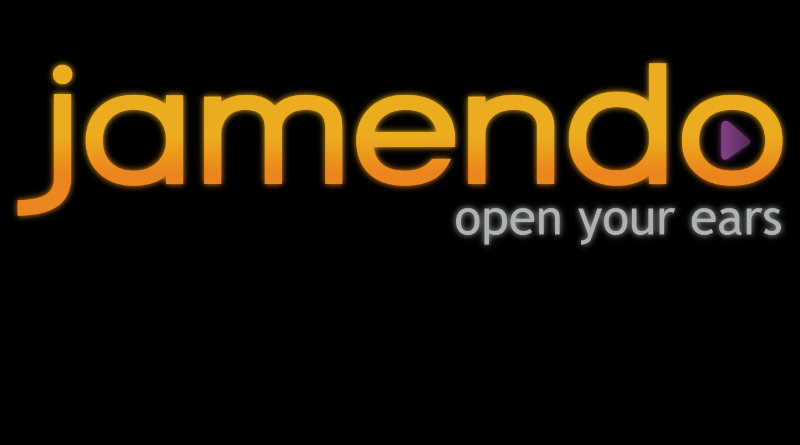
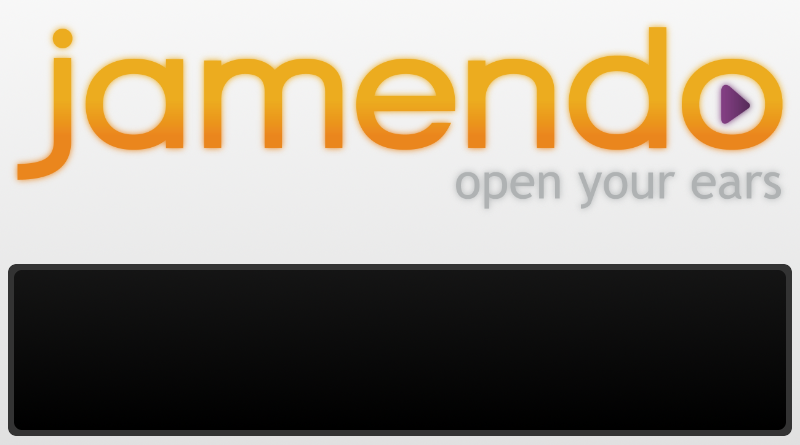
New background, code cleanup

diff --git a/jamaui/ui.py b/jamaui/ui.py
@@ -1,19 +1,8 @@
-# debugging hack - add . to path
 import os, sys
-local_module_dir = os.path.join(os.path.dirname(sys.argv[0]), '..')
-if os.path.isdir(local_module_dir):
-    sys.path.append(local_module_dir)
-
 import gtk
 import gobject
 import util
 import logging
-import gobject
-
-# we don't use the local DB...
-import jamaendo
-from jamaui.player import Player, Playlist
-from util import jsonprint
 
 import ossohelper
 
@@ -35,182 +24,28 @@ from dbus.mainloop.glib import DBusGMainLoop
 
 DBusGMainLoop(set_as_default=True)
 
-_the_playerwindow = None
+from playerwindow import open_playerwindow
+from search import SearchWindow
 
-class PlayerWindow(hildon.StackableWindow):
-    def __init__(self, playlist=None):
-        hildon.StackableWindow.__init__(self)
-        self.set_title("jamaendo")
-
-        self.connect('hide', self.on_hide)
-        self.connect('destroy', self.on_destroy)
-
-        self.playlist = Playlist(playlist)
-        self.player = Player()
-
-        vbox = gtk.VBox()
-
-        hbox = gtk.HBox()
-
-        self.cover = gtk.Image()
-        self.cover.set_size_request(200, 200)
-        self.cover.set_from_stock(gtk.STOCK_CDROM, gtk.ICON_SIZE_DIALOG)
-
-        vbox2 = gtk.VBox()
-
-        self.playlist_pos = gtk.Label()
-        self.track = gtk.Label()
-        self.progress = hildon.GtkHScale()
-        self.artist = gtk.Label()
-        self.album = gtk.Label()
-
-        self.set_labels('track name', 'artist', 'album', 0, 0)
-
-        vbox2.pack_start(self.track, True)
-        vbox2.pack_start(self.artist, False)
-        vbox2.pack_start(self.album, False)
-        vbox2.pack_start(self.playlist_pos, False)
-        vbox2.pack_start(self.progress, False)
-
-        hbox.pack_start(self.cover, True, True, 0)
-        hbox.pack_start(vbox2, True, True, 0)
-
-        vbox.pack_start(hbox, True, True, 0)
-
-        btns = gtk.HButtonBox()
-        btns.set_property('layout-style', gtk.BUTTONBOX_SPREAD)
-
-        vbox.pack_end(btns, False, True, 0)
-
-        self.add_stock_button(btns, gtk.STOCK_MEDIA_PREVIOUS, self.on_prev)
-        self.add_stock_button(btns, gtk.STOCK_MEDIA_PLAY, self.on_play)
-        self.add_stock_button(btns, gtk.STOCK_MEDIA_PAUSE, self.on_pause)
-        self.add_stock_button(btns, gtk.STOCK_MEDIA_STOP, self.on_stop)
-        self.add_stock_button(btns, gtk.STOCK_MEDIA_NEXT, self.on_next)
-
-        self.add(vbox)
-
-        print "Created player window, playlist: %s" % (self.playlist)
-
-    def on_hide(self, wnd):
-        print "Hiding player window"
-
-    def on_destroy(self, wnd):
-        print "Destroying player window"
-        if self.player:
-            self.player.stop()
-        global _the_playerwindow
-        _the_playerwindow = None
-
-    def add_stock_button(self, btns, stock, cb):
-        btn = hildon.GtkButton(gtk.HILDON_SIZE_FINGER_HEIGHT)
-        btn.set_relief(gtk.RELIEF_NONE)
-        btn.set_image(gtk.image_new_from_stock(stock, gtk.ICON_SIZE_SMALL_TOOLBAR))
-        btn.connect('clicked', cb)
-        btns.add(btn)
-
-    def set_labels(self, track, artist, album, playlist_pos, playlist_size):
-        self.playlist_pos.set_markup('<span size="small">%s/%s songs</span>'%(playlist_pos, playlist_size))
-        self.track.set_markup('<span size="x-large">%s</span>'%(track))
-        self.artist.set_markup('<span size="large">%s</span>'%(artist))
-        self.album.set_markup('<span foreground="#aaaaaa">%s</span>'%(album))
-
-    def update_state(self):
-        item = self.playlist.current()
-        if item:
-            if not item.name:
-                item.load()
-            print "current:", item
-            self.set_labels(item.name, item.artist_name, item.album_name,
-                            self.playlist.current_index(), self.playlist.size())
-            coverfile = jamaendo.get_album_cover(int(item.album_id), size=200)
-            print "coverfile:", coverfile
-            self.cover.set_from_file(coverfile)
-
-    def play_tracks(self, tracks):
-        self.playlist = Playlist(playlist)
-        self.player.play(self.playlist)
-        self.update_state()
-
-    def on_play(self, button):
-        self.player.play(self.playlist)
-        self.update_state()
-    def on_pause(self, button):
-        self.player.pause()
-    def on_prev(self, button):
-        self.player.prev()
-        self.update_state()
-    def on_next(self, button):
-        self.player.next()
-        self.update_state()
-    def on_stop(self, button):
-        self.player.stop()
-
-def open_playerwindow(tracks):
-    global _the_playerwindow
-    if _the_playerwindow:
-        hildon.WindowStack.push_1(_the_playerwindow)
-        _the_playerwindow.play_tracks(tracks)
-    else:
-        _the_playerwindow = PlayerWindow(tracks)
-        _the_playerwindow.show_all()
-    return _the_playerwindow
-
-class SearchWindow(hildon.StackableWindow):
+class ArtistWindow(hildon.StackableWindow):
     def __init__(self):
         hildon.StackableWindow.__init__(self)
-        self.set_title("Search")
+        self.set_title("View Artist")
 
+        label = gtk.Label("Artist information")
         vbox = gtk.VBox(False, 0)
-
-        hbox = gtk.HBox()
-        self.entry = hildon.Entry(gtk.HILDON_SIZE_FINGER_HEIGHT)
-        self.entry.set_placeholder("Search")
-        self.entry.connect('activate', self.on_search)
-        btn = hildon.GtkButton(gtk.HILDON_SIZE_FINGER_HEIGHT)
-        btn.set_label("Go")
-        btn.connect('clicked', self.on_search)
-        hbox.pack_start(self.entry, True, True, 0)
-        hbox.pack_start(btn, False)
-
-        btnbox = gtk.HBox()
-        playbtn = hildon.GtkButton(gtk.HILDON_SIZE_FINGER_HEIGHT)
-        playbtn.set_label("Play selected")
-        playbtn.connect('clicked', self.play_selected)
-        btnbox.pack_start(playbtn, False)
-
-        self.results = hildon.TouchSelector(text=True)
-        self.results.connect("changed", self.selection_changed)
-        self.results.set_column_selection_mode(hildon.TOUCH_SELECTOR_SELECTION_MODE_SINGLE)
-
-        vbox.pack_start(hbox, False)
-        vbox.pack_start(self.results, True, True, 0)
-        vbox.pack_start(btnbox, False)
-
+        vbox.pack_start(label, True, True, 0)
         self.add(vbox)
 
-        self.idmap = {}
+class AlbumWindow(hildon.StackableWindow):
+    def __init__(self):
+        hildon.StackableWindow.__init__(self)
+        self.set_title("View Album")
 
-        self.pwnd = None
-
-    def on_search(self, w):
-        txt = self.entry.get_text()
-        for album in jamaendo.search_albums(query=txt):
-            title = "%s - %s" % (album.artist_name, album.name)
-            self.idmap[title] = album
-            self.results.append_text(title)
-
-    def selection_changed(self, results, userdata):
-        pass
-
-    def play_selected(self, btn):
-        current_selection = self.results.get_current_text()
-
-        album = self.idmap[current_selection]
-        tracks = jamaendo.get_tracks(album.ID)
-        if tracks:
-            wnd = open_playerwindow(tracks)
-            wnd.on_play(None)
+        label = gtk.Label("Album information")
+        vbox = gtk.VBox(False, 0)
+        vbox.pack_start(label, True, True, 0)
+        self.add(vbox)
 
 class RadiosWindow(hildon.StackableWindow):
     def __init__(self):
@@ -324,7 +159,7 @@ class Jamaui(object):
             self.window.window.set_back_pixmap(background, False)
 
         bbox = gtk.HButtonBox()
-        alignment = gtk.Alignment(xalign=0.0, yalign=0.8, xscale=1.0)
+        alignment = gtk.Alignment(xalign=0.2, yalign=0.925, xscale=1.0)
         alignment.add(bbox)
         bbox.set_property('layout-style', gtk.BUTTONBOX_SPREAD)
         self.bbox = bbox
@@ -375,8 +210,8 @@ JAMENDO is an online platform that distributes musical works under Creative Comm
         self.featuredwnd.show_all()
 
     def on_radios(self, button):
-        self.radiownd = RadioWindow()
-        self.radiownd.show_all()
+        self.radioswnd = RadiosWindow()
+        self.radioswnd.show_all()
 
     def on_search(self, button):
         self.searchwnd = SearchWindow()

diff --git a/jamaui/console.py b/jamaui/console.py
@@ -7,7 +7,7 @@ if os.path.isdir(local_module_dir):
     sys.path.append(local_module_dir)
 
 import jamaendo
-from jamaui.player import Player, Playlist
+from jamaui.player import Player, Playlist, the_player
 import time
 import gobject
 
@@ -52,7 +52,7 @@ class Console(object):
 
     def play_tracks(self, tracks):
         playlist = Playlist(tracks)
-        player = Player()
+        player = the_player
         player.play(playlist)
 
         while player.playing():

diff --git a/jamaui/player.py b/jamaui/player.py
@@ -409,3 +409,5 @@ class Player(Playlist):
     def _on_eos(self):
         log.debug("EOS!")
         self.next()
+
+the_player = Player() # the player instance
